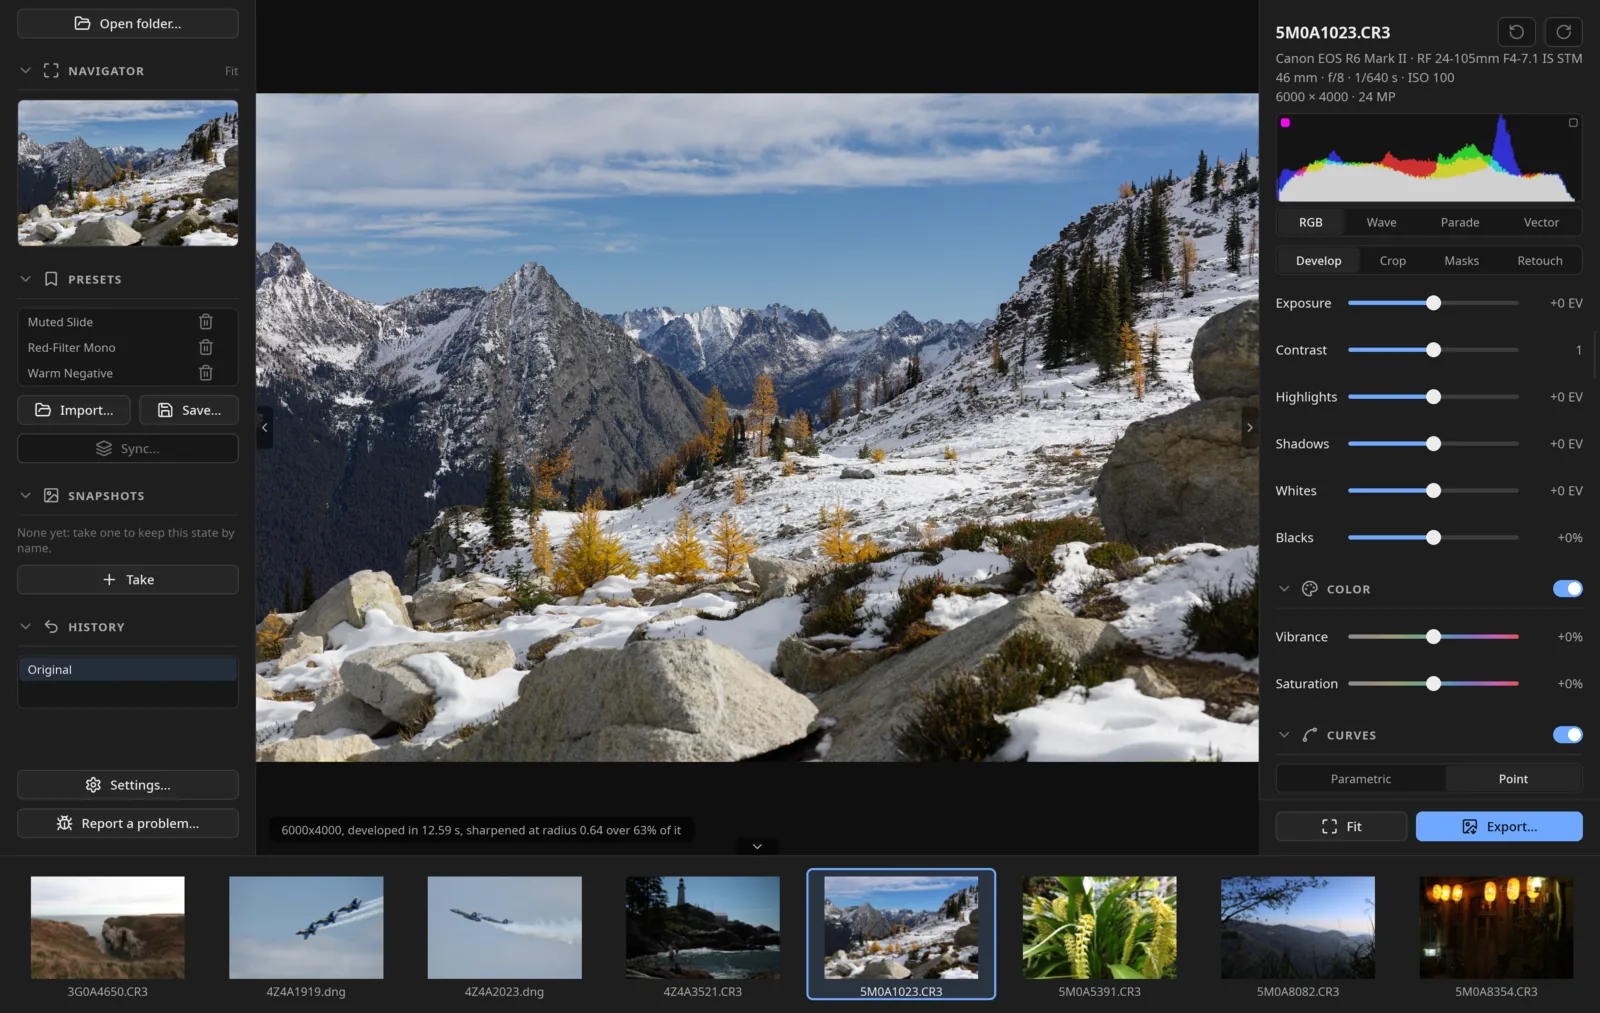
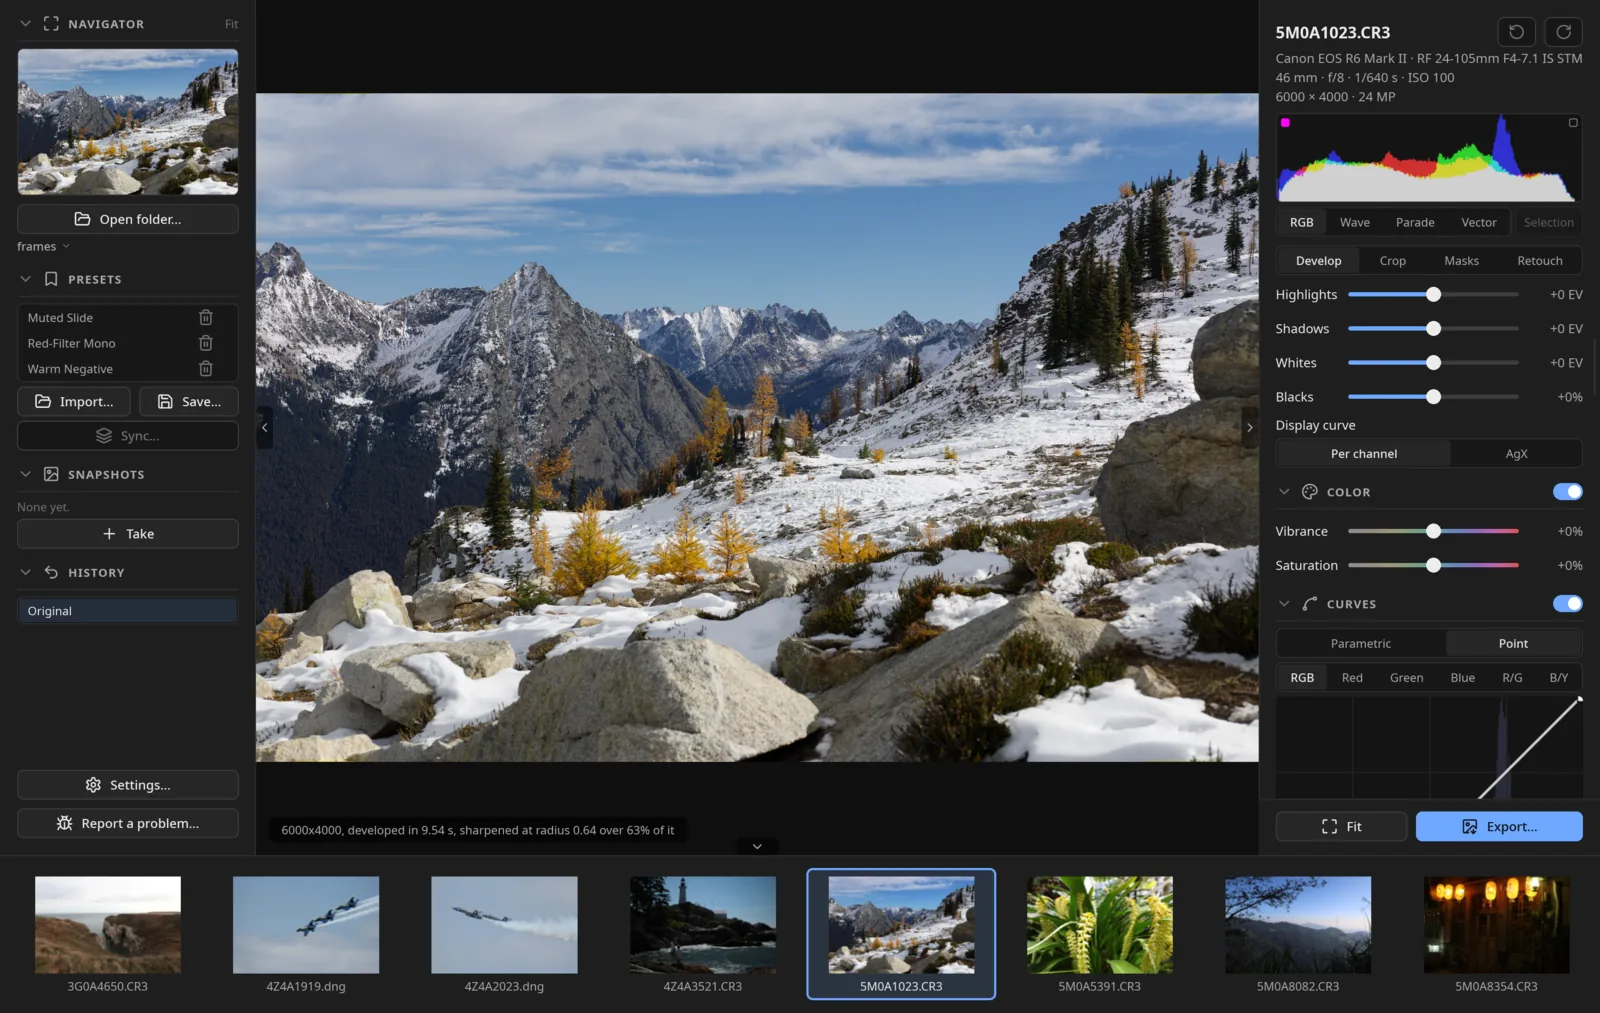
Update the README and its screenshot for 0.4.0

diff --git a/README.md b/README.md
@@ -5,10 +5,10 @@ learn your camera's own color from your raws, and leaves your folders
 in charge.
 
 <a href="https://greycard.org"><img src="docs/images/develop.webp"
-  alt="The editor on a mountain landscape: the file browser and history
-  on the left, the picture in the middle, and on the right the histogram
-  and the Develop tab's Light and Color sliders, with the folder in a
-  filmstrip along the bottom."></a>
+  alt="The editor on a mountain landscape: the navigator, presets and
+  history on the left, the picture in the middle, and on the right the
+  histogram and the Develop tab's Light sliders, display curve switch
+  and Color sliders, with the folder in a filmstrip along the bottom."></a>
 
 Builds for Linux, Apple silicon Macs and Windows are on [the releases
 page](https://github.com/jessolmstead/greycard/releases/latest);
